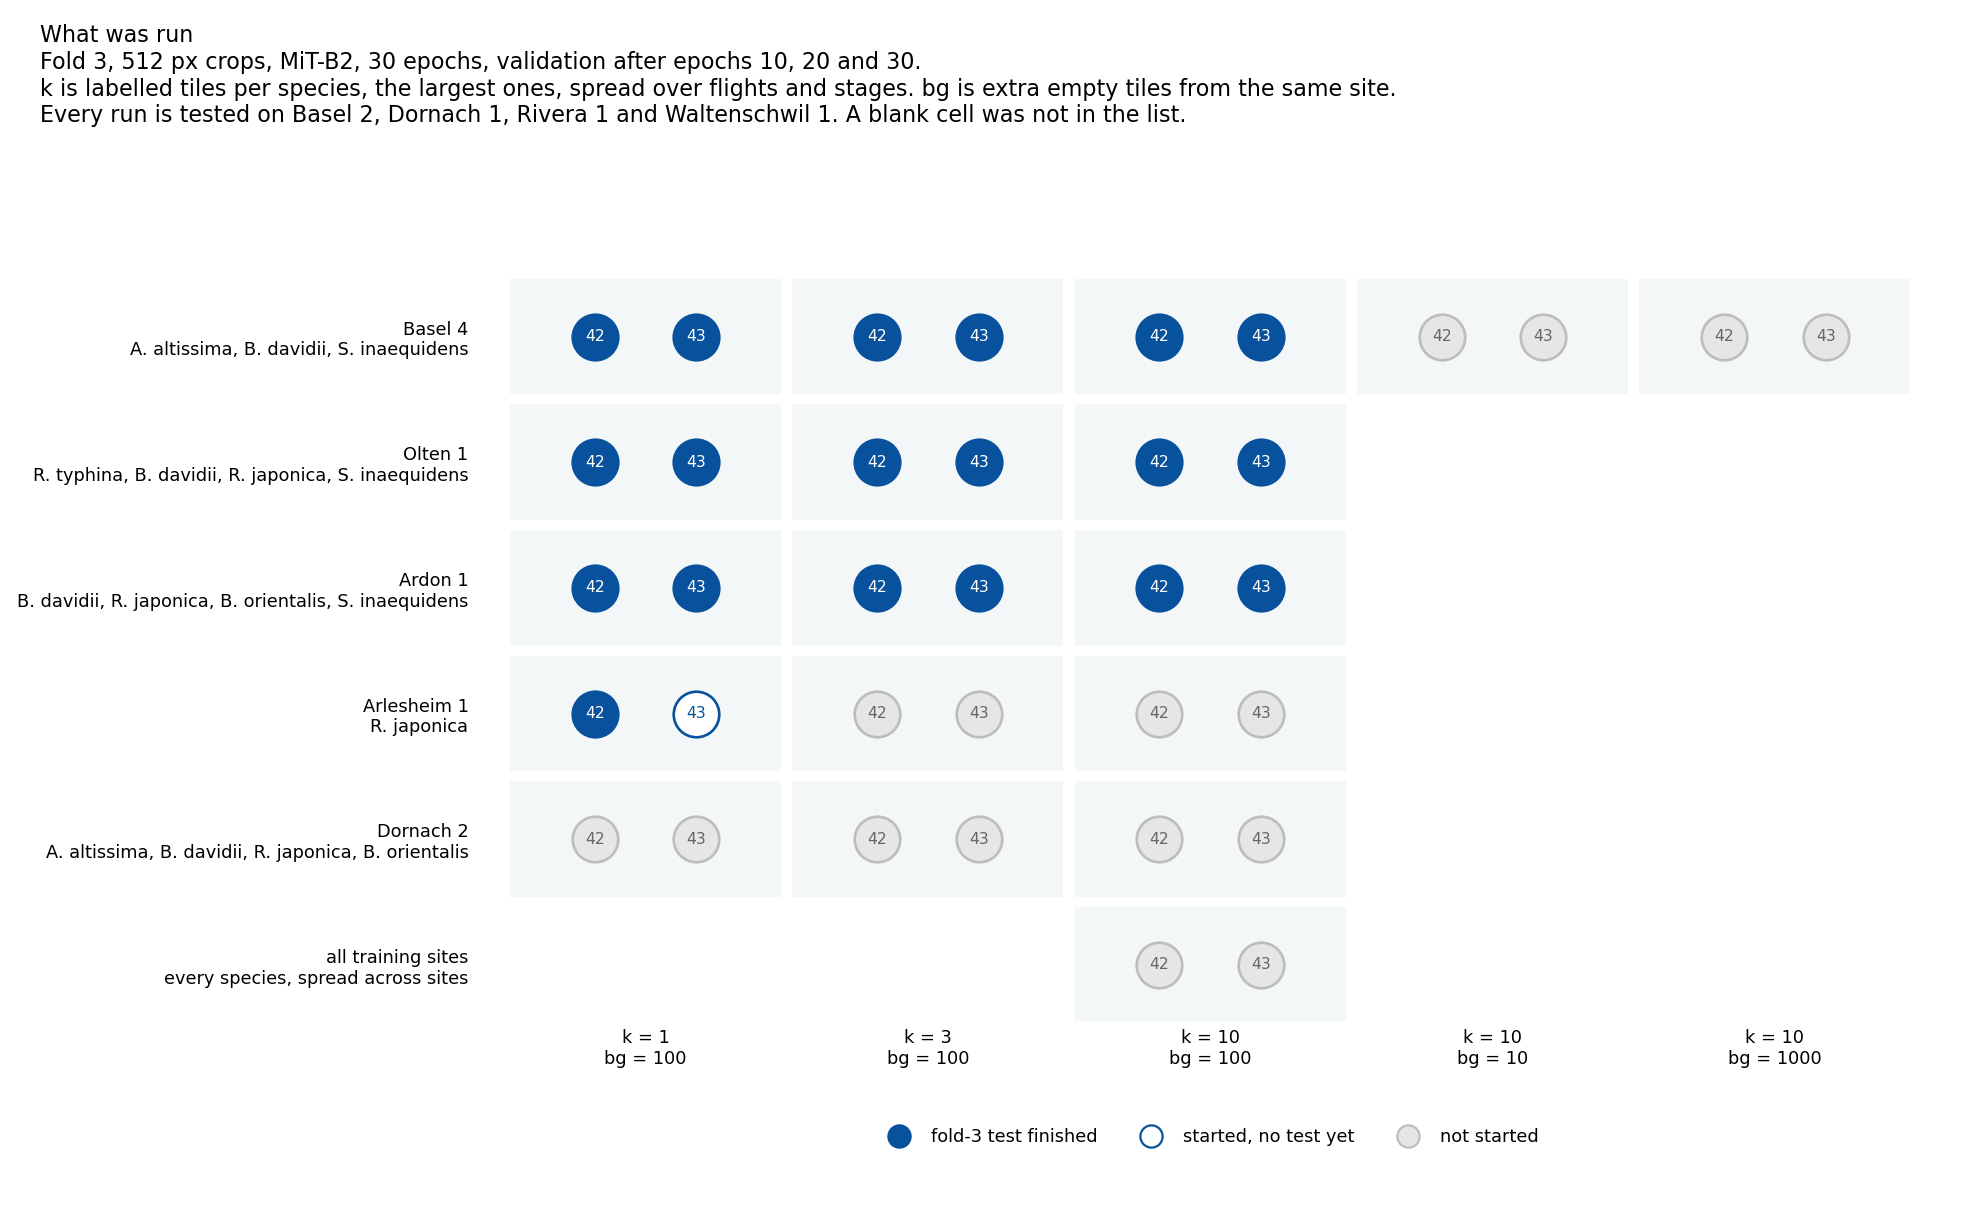
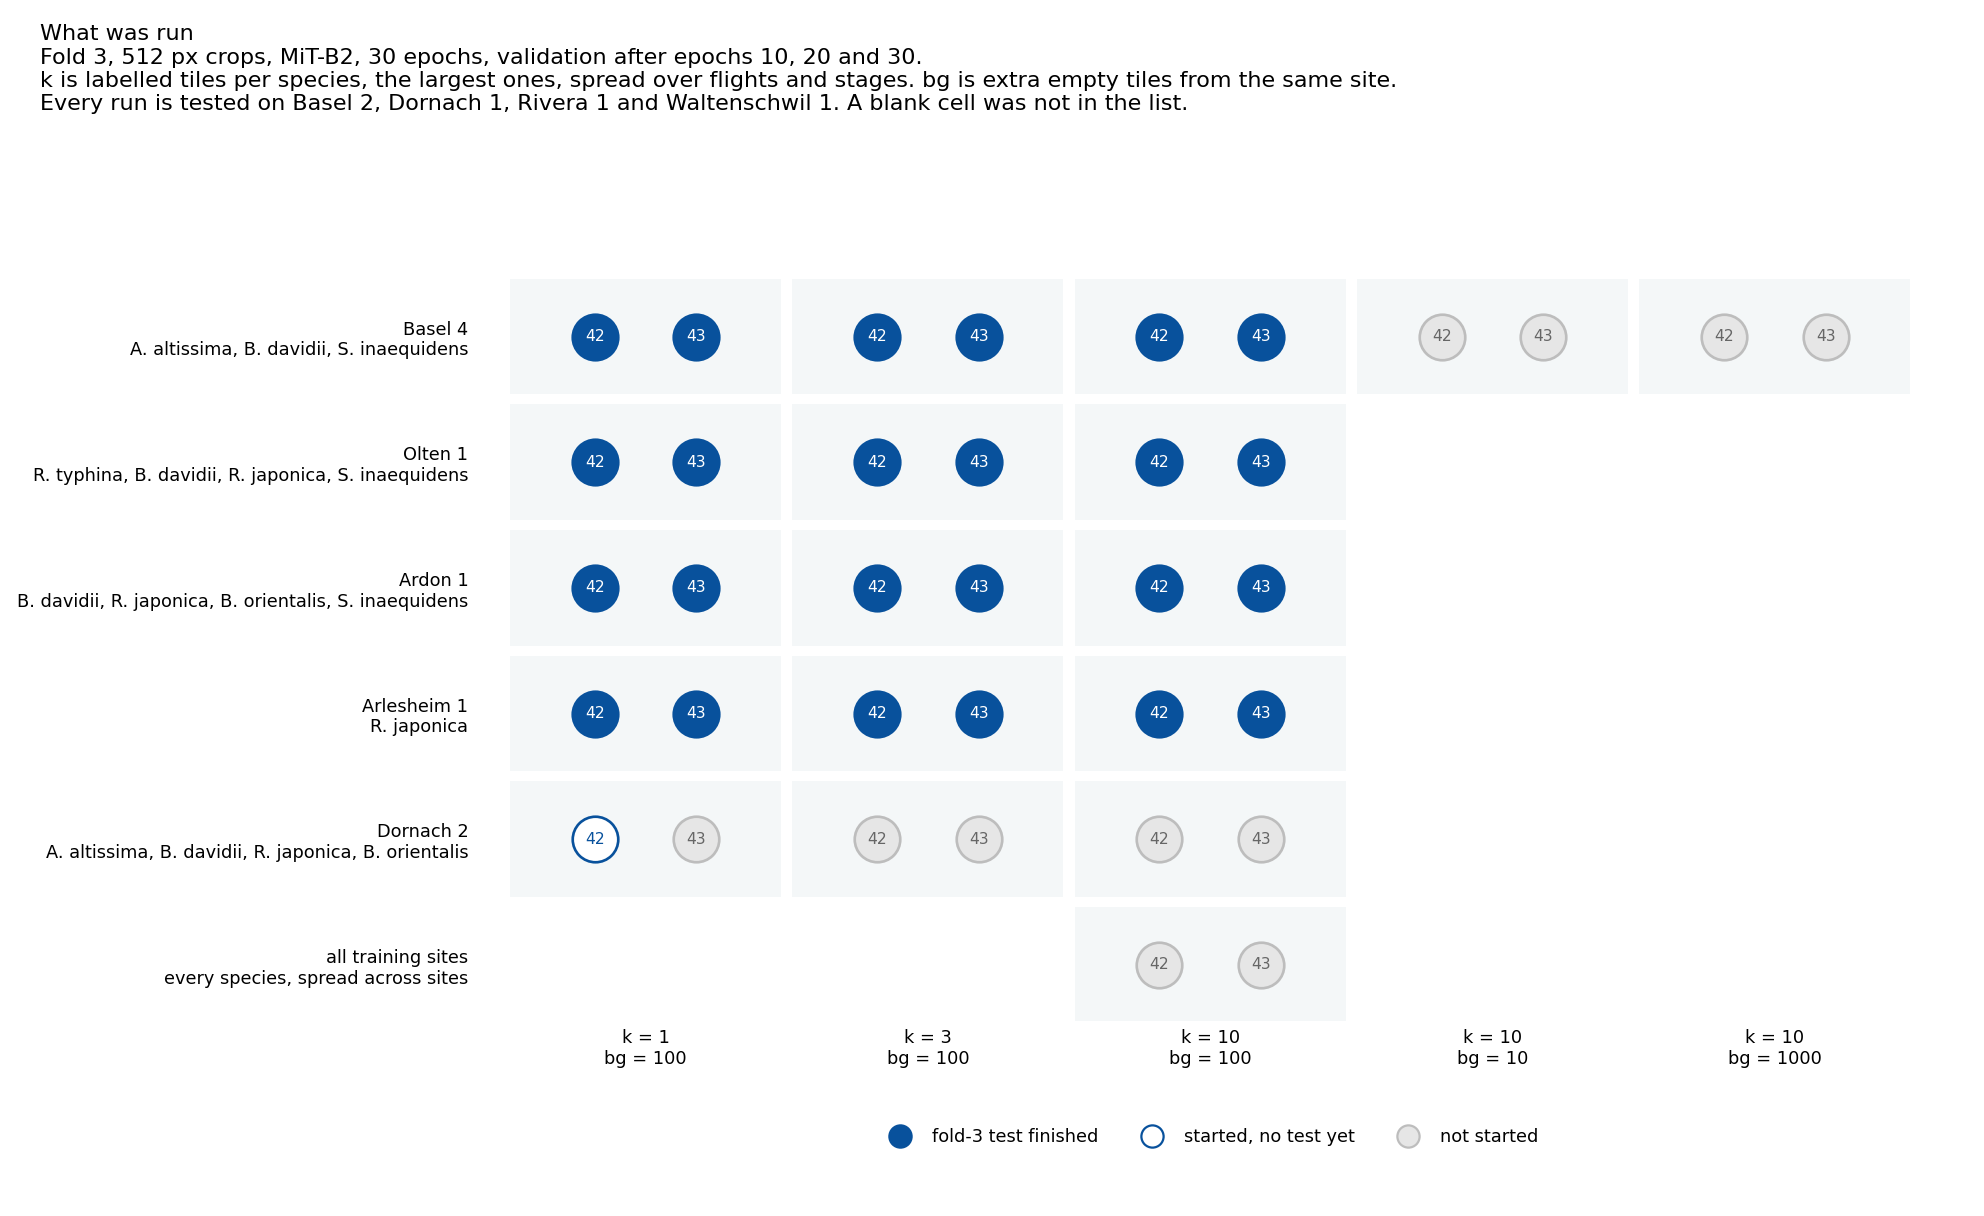
Add few-shot experiment notes and update site figures
- Created a new `notes.md` file to document few-shot experiment insights and strategies for training models with limited species data.
- Updated `run_plan.png` and `site_map_overview.png` figures to reflect recent changes in site analysis and training configurations, enhancing visual clarity and relevance.

diff --git a/notebooks/notes.md b/notebooks/notes.md
@@ -1,0 +1,9 @@
+few shot experiment notes by a.s:
+1. score only species that are in the training flight. the others cannot be found/scored.
+2. my idea: we do a slight shift:
+currently we have 6 species in the data. the original idea was that there exists a 7th species that only has 1 flight... my idea:
+we basically train on all 5 species, then train on the "new" single flight of the 6th species (of which we have at the very least 2 flights). which allows us to train the model as if there was a new species while still have the ability to evaluate/test the model performance
+Issues: 
+ 2a. In the five-species stage, drop every tile that contains the sixth species. If you mark those pixels as background, the model learns to suppress the plant you later want it to find.
+ 2b. Do not fine-tune on the new flight alone. Keep training on the old five as well, or it will forget them.
+3. 
